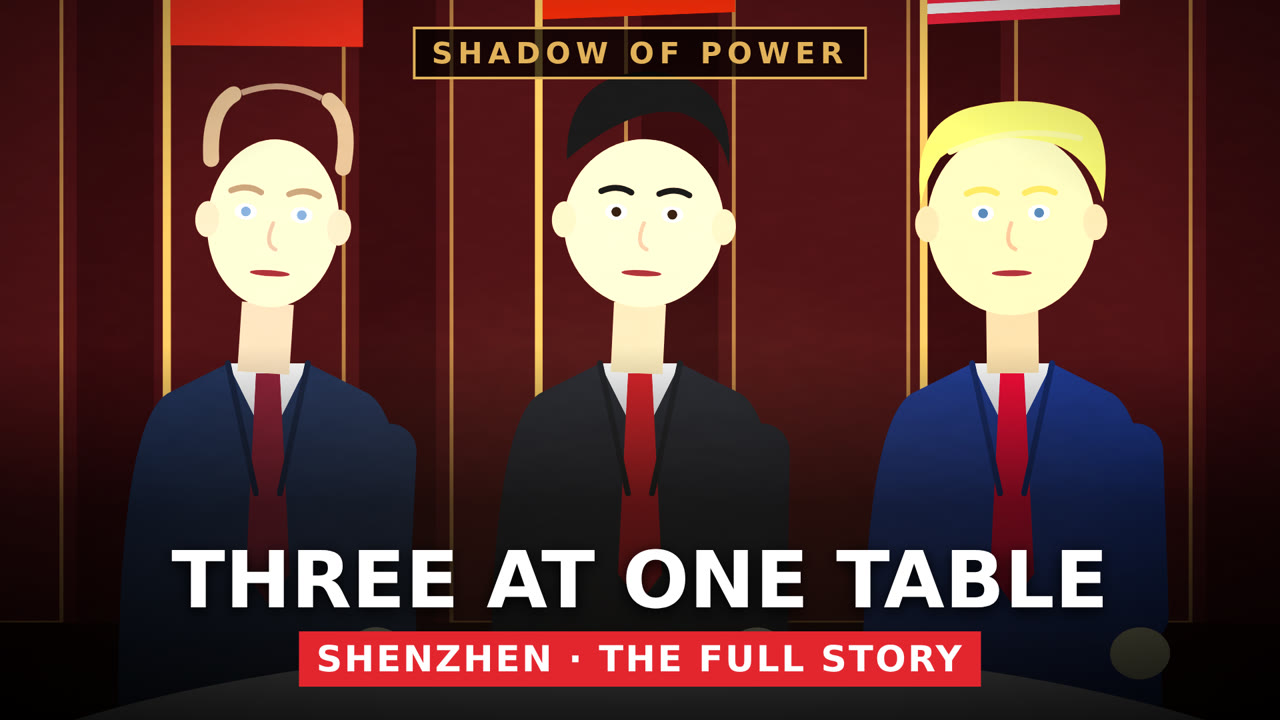
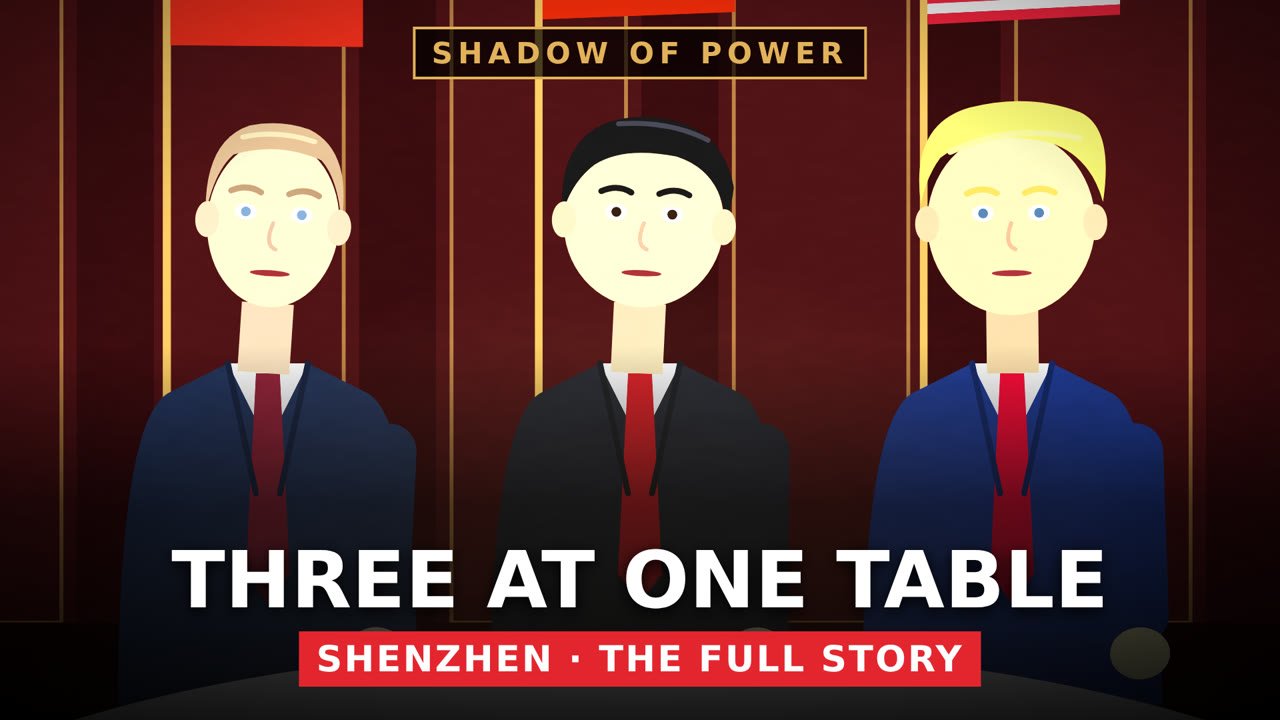
ten-vlasti: proper Putin and Xi haircuts at the summit table, thumbnails re-rendered
Claude-Session: https://claude.ai/code/session_01MbT8Ert6CWJm1FWJ36xeSe

Changed region(s): [[0.4375, 0.0917, 0.5938, 0.3056], [0.1562, 0.0917, 0.2812, 0.275]]

diff --git a/video-scripts/ten-vlasti/scenes.js b/video-scripts/ten-vlasti/scenes.js
@@ -443,9 +443,9 @@ const SCENES = {
   summit: (seg) => {
     const LEAD = {
       putin: { x: 250, skin: "#e9c6aa", suit: "#1f2a44", tie: "#6b1f2e", rx: 66, ry: 84, flag: "ru",
-        hair: P("M-66 -560 q-6 -50 18 -66 M66 -560 q6 -50 -18 -66", "none", 'stroke="#b39a7c" stroke-width="16" stroke-linecap="round"') + P("M-40 -628 q40 -18 80 0", "none", 'stroke="#c9b293" stroke-width="6" opacity="0.7"'), brow: "#9a8064", eye: "#6f8aa8" },
+        hair: P("M-68 -505 Q-74 -578 -30 -596 Q0 -604 30 -596 Q74 -578 68 -505 Q62 -548 44 -566 Q0 -582 -44 -566 Q-62 -548 -68 -505 Z", "#b39a7c") + P("M-36 -584 Q0 -594 36 -584", "none", 'stroke="#d2bc9c" stroke-width="5" stroke-linecap="round"'), brow: "#9a8064", eye: "#6f8aa8" },
       xi: { x: 540, skin: "#f0ccab", suit: "#1d1f27", tie: "#9a1a22", rx: 80, ry: 84, flag: "cn",
-        hair: P("M-80 -560 q-6 -86 80 -92 q86 4 82 92 q-10 -40 -50 -52 q-50 -6 -112 52 Z", "#141414"), brow: "#141414", eye: "#2a1a10" },
+        hair: P("M-82 -505 Q-92 -598 -10 -606 Q72 -610 88 -540 Q87 -522 82 -505 Q74 -556 30 -568 Q-24 -576 -52 -556 Q-74 -538 -82 -505 Z", "#141414") + P("M-30 -598 Q20 -604 60 -586", "none", 'stroke="#3a3a44" stroke-width="5" stroke-linecap="round"'), brow: "#141414", eye: "#2a1a10" },
       trump: { x: 830, skin: "#f0c39c", suit: "#1d2f6b", tie: "#c8102e", rx: 84, ry: 92, flag: "us",
         hair: P("M-90 -520 Q-100 -600 -40 -616 Q20 -630 70 -610 Q104 -594 92 -520 Q80 -566 40 -580 Q-30 -596 -70 -566 Q-84 -548 -90 -520 Z", "#e6c36a") + P("M-60 -572 Q0 -600 70 -584", "none", 'stroke="#f3d98a" stroke-width="6" stroke-linecap="round"'), brow: "#d9b45a", eye: "#4a6a8a" },
     };
